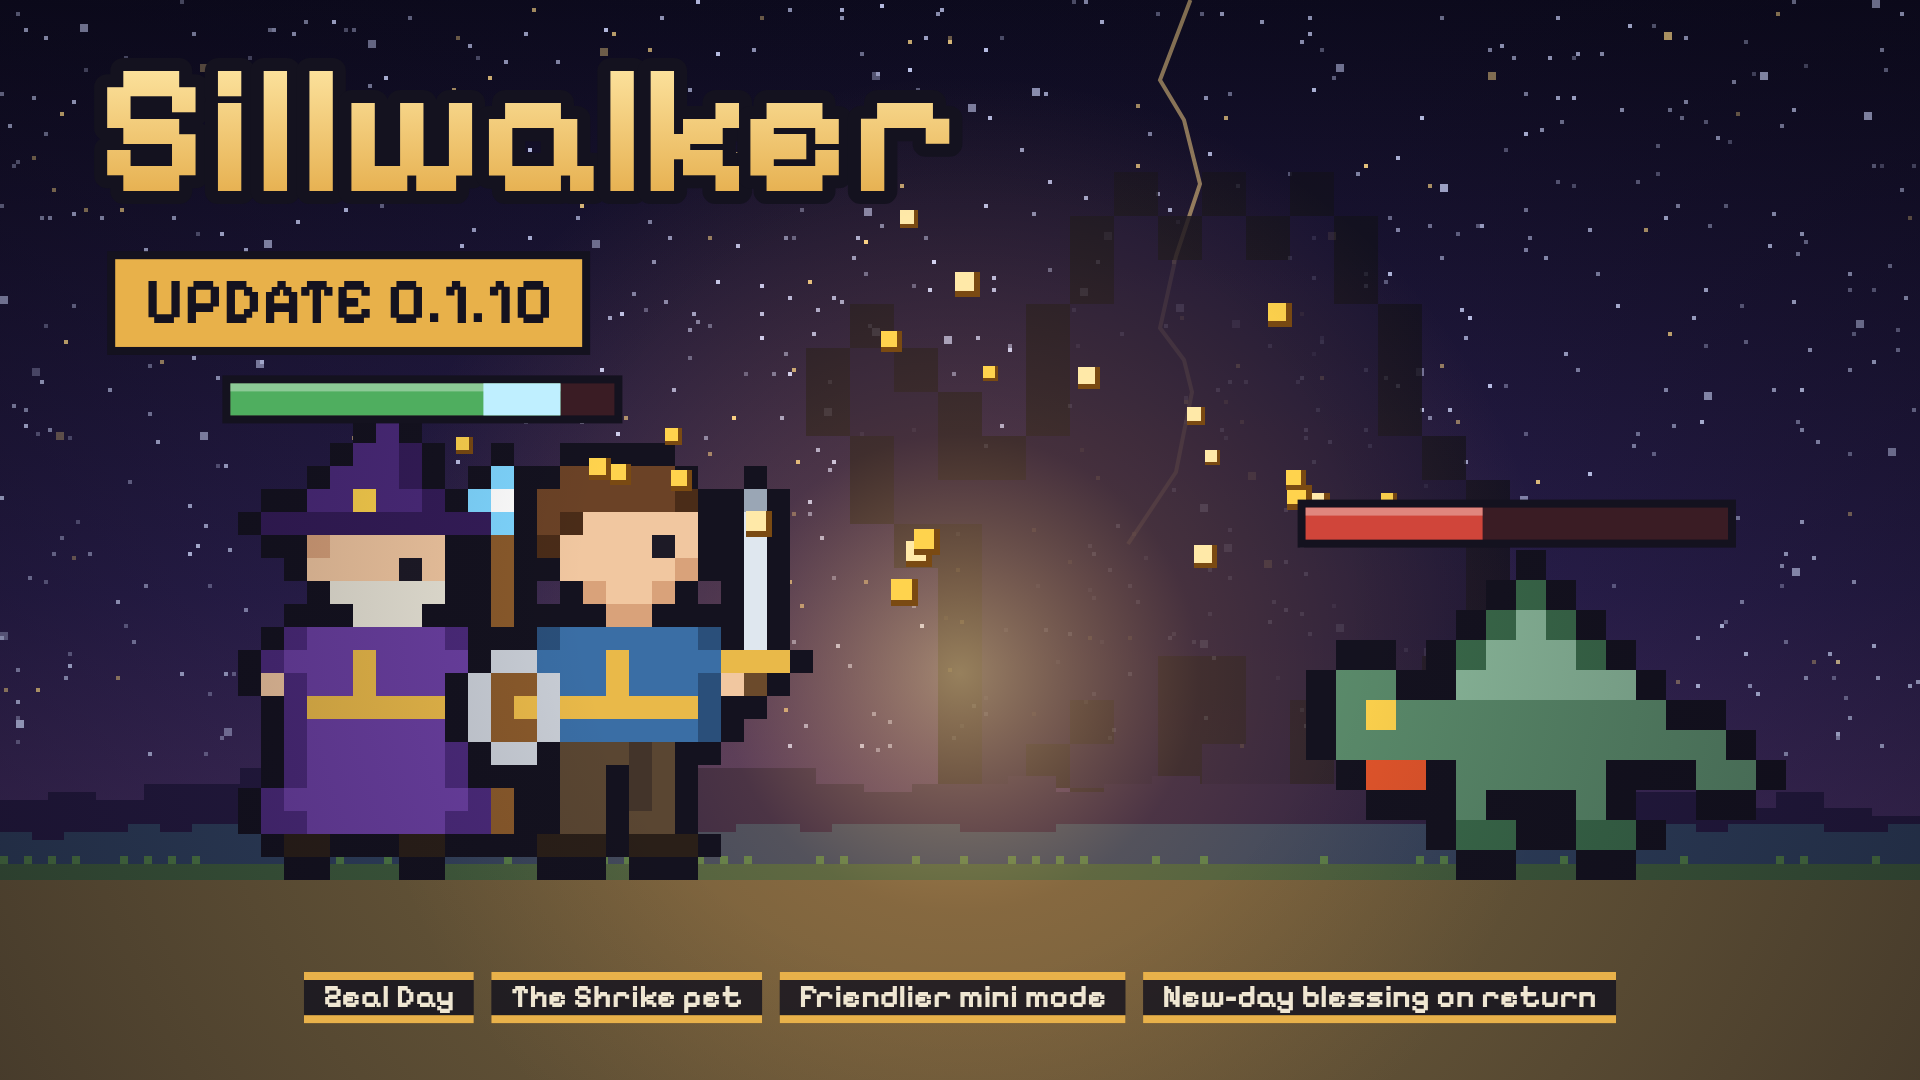
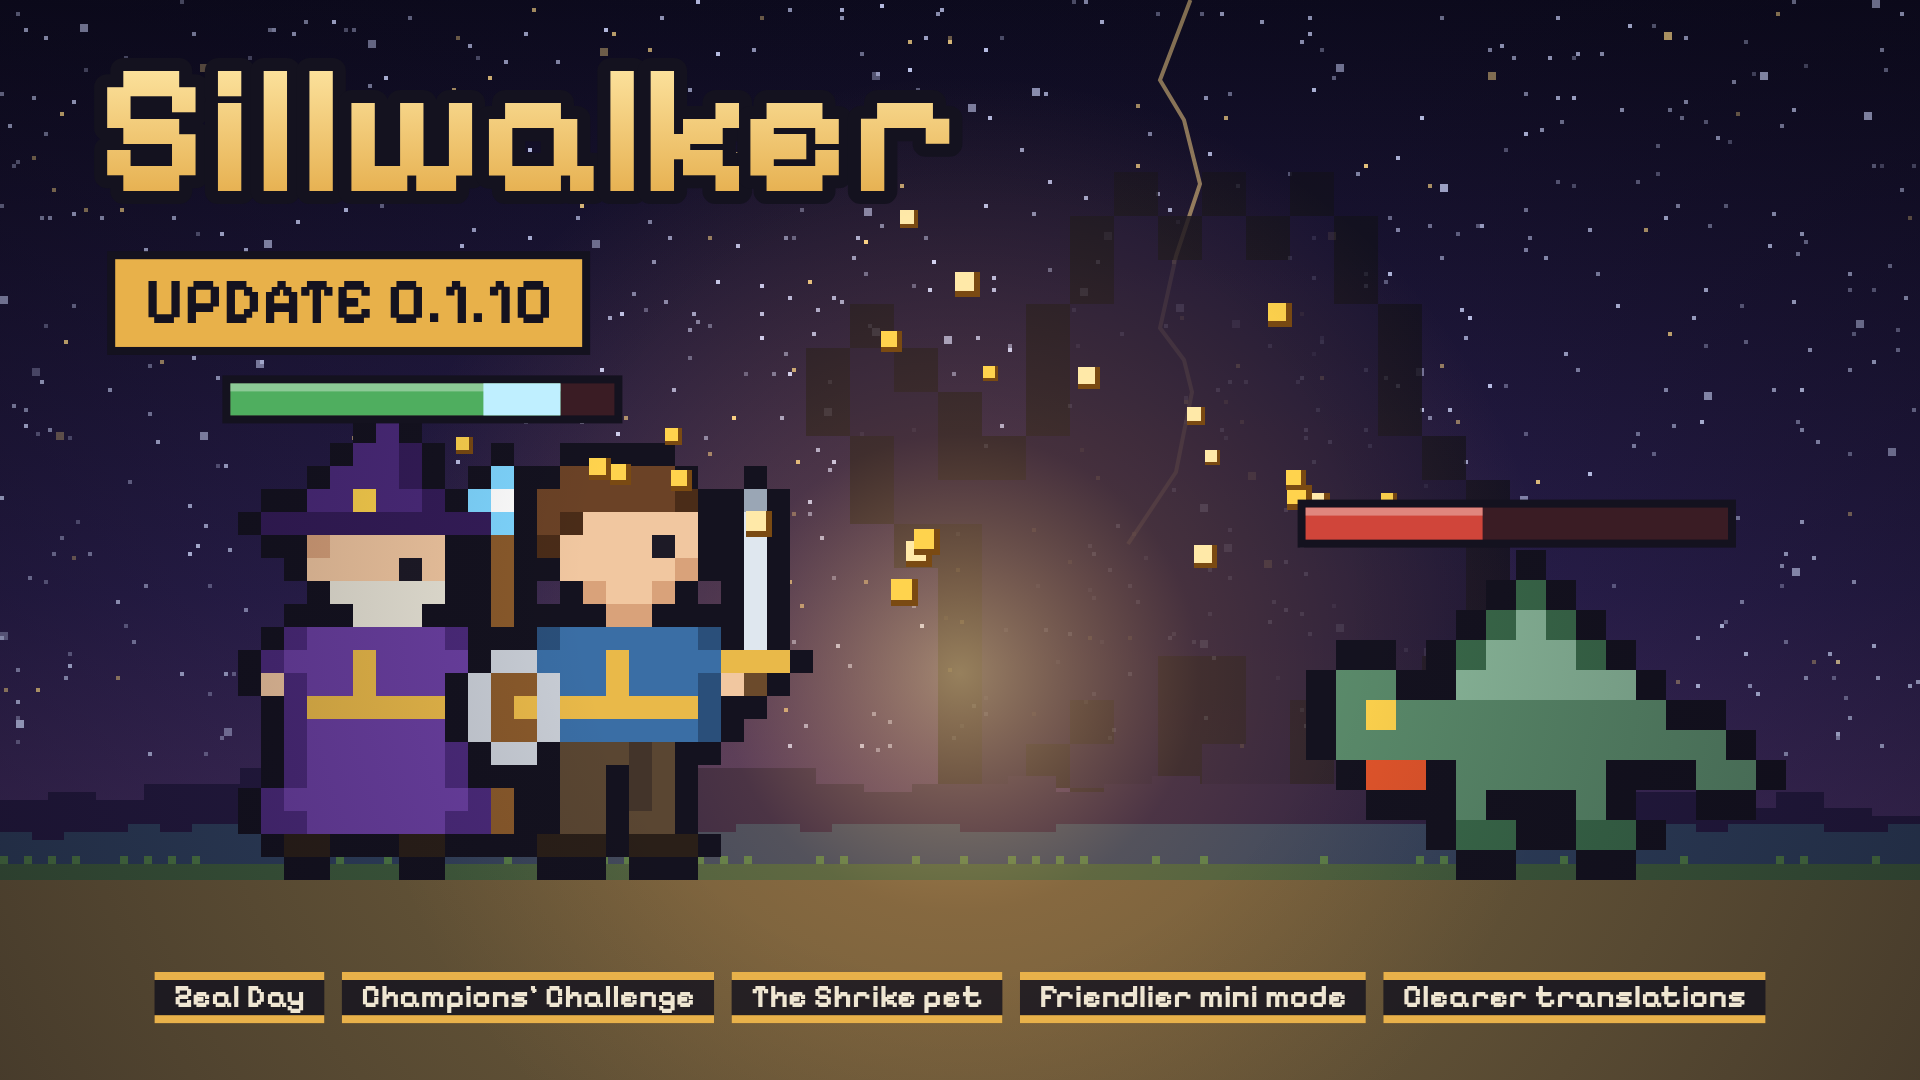
Préparation 0.1.10 (it. 3273) : titre, couverture et accroches avec le Défi des champions
Claude-Session: https://claude.ai/code/session_01BoV1hVHohF69q4PDskLo8j

Changed region(s): [[0.0625, 0.8861, 0.9375, 0.9472]]

diff --git a/scripts/steam-capsules/make.js b/scripts/steam-capsules/make.js
@@ -19,7 +19,7 @@ const SIZES = [
   ["update-0.1.7", 1920, 1080, "update", { ver: "0.1.7", tags: "Lighter skill graph|Shortest path|Talents redone|Final battle theme|An ending surprise|10 languages" }], // (it. 2346)
   ["update-0.1.8", 1920, 1080, "update", { ver: "0.1.8", tags: "Fairer champions|Richer return|Safe full bag|One-click buys|Clear big numbers|Royal Favor event" }], // (it. 3193)
   ["update-0.1.9", 1920, 1080, "update", { ver: "0.1.9", tags: "Star Day|Relentless elite|Weasel & Hummingbird|Shooting-star quests|Clearer mini mode" }], // (it. 3237)
-  ["update-0.1.10", 1920, 1080, "update", { ver: "0.1.10", tags: "Zeal Day|The Shrike pet|Friendlier mini mode|New-day blessing on return" }], // (it. 3260)
+  ["update-0.1.10", 1920, 1080, "update", { ver: "0.1.10", tags: "Zeal Day|Champions’ Challenge|The Shrike pet|Friendlier mini mode|Clearer translations" }], // (it. 3260, 3273)
 ].filter(([name]) => !process.env.ONLY || name === process.env.ONLY); // ONLY=<nom> : une seule image
 app.whenReady().then(async () => {
   fs.mkdirSync(OUT, { recursive: true });

diff --git a/docs/JOURNAL.md b/docs/JOURNAL.md
@@ -5,6 +5,8 @@ Revue générale toutes les 10 itérations (prochaine : itération 71).
 
 ## Fait
 
+- 2026-11-25 (it. 3273) Préparation de la 0.1.10 : titre (« a Zeal Day, the Champions’ Challenge and the Shrike »), couverture (5 étiquettes) et
+  phrases d'accroche des 10 langues mis à jour avec le Défi des champions.
 - 2026-11-25 (it. 3272) « Quoi de neuf » : édition 188 (Défi des champions), 10 langues ; nouveautés retenues de la 0.1.10 complétées.
 - 2026-11-25 (it. 3271) REVUE GÉNÉRALE. Simulations 12 h (graine 7) : nécromancien 60, samouraï 65, prêtresse 64. Perf : bande 19,9 % (charge
   2,5), panneau 19,3 %, mini 5,5 %, icône 0,5 %. Nécromancien suivi sur 7 graines avant / après le Défi des champions (ee4dc65f, git worktree) :

diff --git a/docs/devlog-0.1.10.md b/docs/devlog-0.1.10.md
@@ -5,7 +5,7 @@ Publié automatiquement par scripts/itch-push.sh (scripts/itch-devlog.cjs). Repr
 
 ## Publication sur itch.io
 
-- **Titre :** Sillwalker 0.1.10 – a Zeal Day, the Shrike and a friendlier mini mode
+- **Titre :** Sillwalker 0.1.10 – a Zeal Day, the Champions’ Challenge and the Shrike
 - **Image de couverture :** steam/itch/cover-0.1.10.png (1920 × 1080 ; `ONLY=update-0.1.10 electron scripts/steam-capsules/make.js <dossier>`)
 - **Tags :** Sillwalker, idle game, idle RPG, incremental game, pixel art, indie game, desktop game, taskbar game,
   cozy game, gamedev
